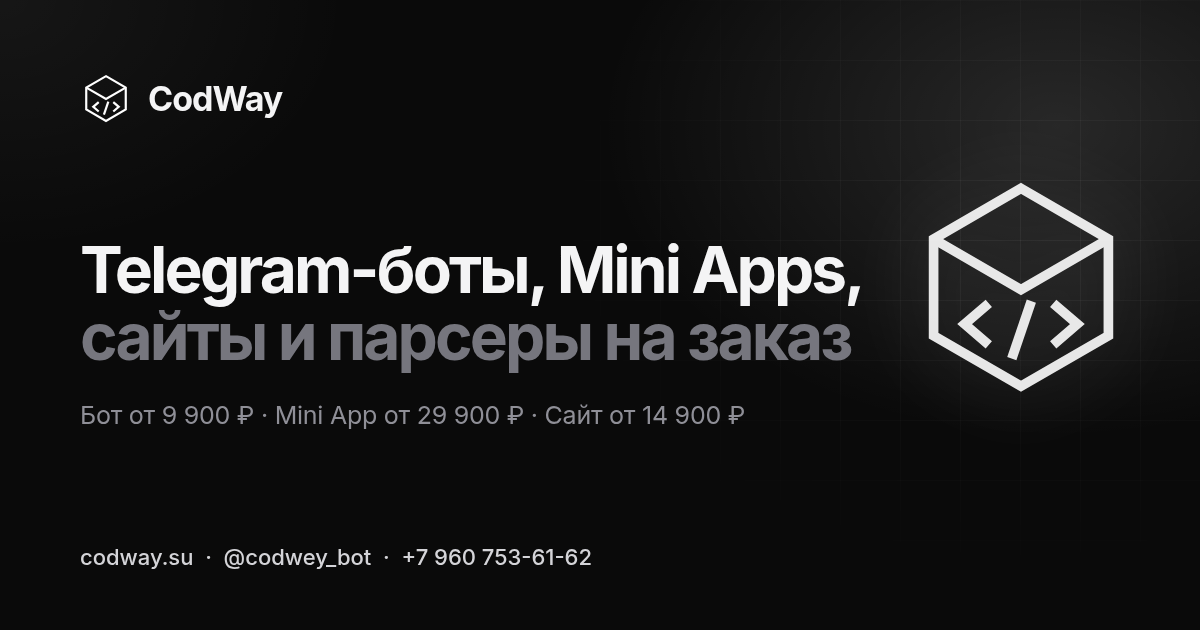
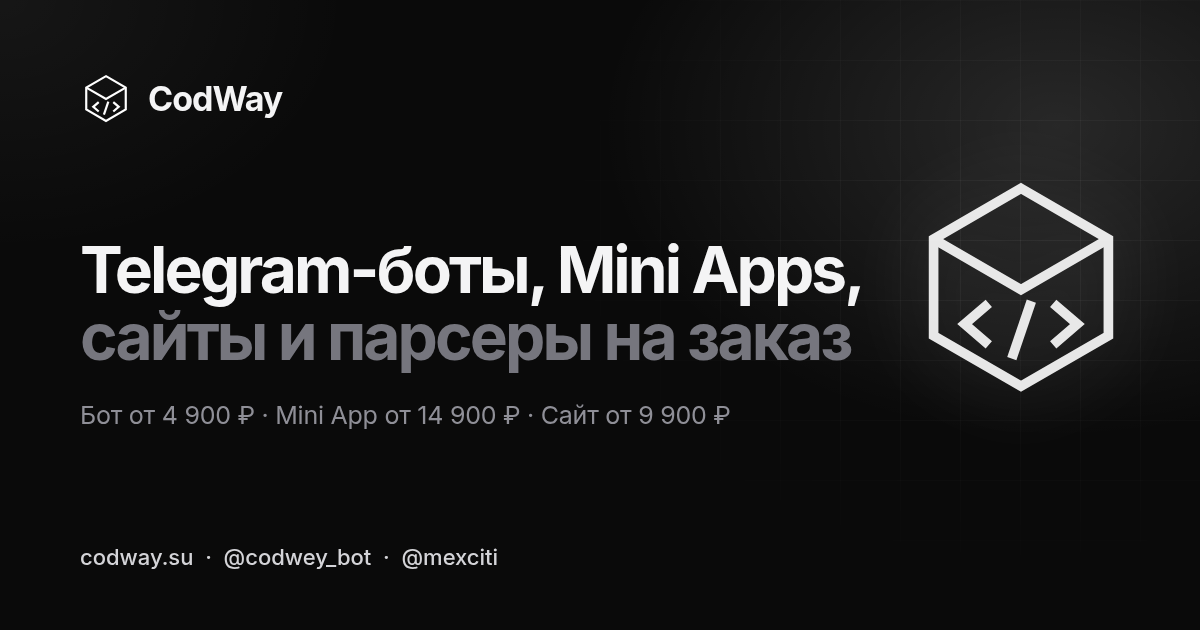
v8: три демо-сайта, понятные карточки демо на /sajt-na-zakaz, убран телефон, deep links в бот
- Вернули демо «Lumière» (/demo/beauty/) и «Квадрат» (/demo/remont/) рядом с «Очаг»:
  карточки в «Готовых решениях», блок #demo-sajty, sitemap.
- Hero на /sajt-na-zakaz: вместо некликабельного макета браузера — три карточки
  демо-сайтов в стиле карточек Mini Apps (фото, ниша, название, строка, «Открыть демо →»).
  Вся карточка — ссылка. Убраны вкладки и JS-переключатель превью.
- Телефон удалён везде: шапка/футер, контакты, форма, schema.org, мета /kontakty,
  og.png (перерисован, заодно актуальные цены), справочная копия бота.
  CI теперь проверяет @codwey_bot и падает, если в dist найдётся номер.
- Кнопки «В бот»/«Хочу такой» на демо ведут в бот с ?start=demo_<id> —
  бот сразу открывает карточку этого решения.
- infra/backend/app.py синхронизирован с VDS: каталог готовых решений в боте.
- Контакты: сетка на 3 карточки.

Changed region(s): [[0.1233, 0.6333, 0.6167, 0.6937], [0.3392, 0.8746, 0.4933, 0.9048]]

diff --git a/site/assets/style.css b/site/assets/style.css
@@ -111,23 +111,17 @@ h1{font-size:clamp(36px,5.2vw,64px);font-weight:700;letter-spacing:-.045em;text-
 .sol-demo:hover,.sol-card:hover .sol-demo{background:#fff;box-shadow:0 14px 34px -12px rgba(255,255,255,.6)}.sol-demo:hover i,.sol-card:hover .sol-demo i{transform:translateX(3px)}.sol-demo:focus-visible{outline:2px solid #fff;outline-offset:3px}
 .sol-play{display:grid;place-items:center;width:26px;height:26px;border-radius:50%;background:#0a0a0a;color:#fff}.sol-play svg{margin-left:1px}
 /* browser + terminal (monochrome) */
-.browser,.term{width:100%;max-width:470px;border-radius:14px;background:#111113;border:1px solid var(--line2);overflow:hidden;box-shadow:var(--sh2)}
+.term{width:100%;max-width:470px;border-radius:14px;background:#111113;border:1px solid var(--line2);overflow:hidden;box-shadow:var(--sh2)}
 .b-bar{display:flex;gap:7px;align-items:center;padding:12px 14px;background:#161618;border-bottom:1px solid var(--line)}.b-bar i{width:11px;height:11px;border-radius:50%;background:#3a3a3e}.b-bar span{margin:0 auto;padding:3px 28px;border-radius:7px;background:#0c0c0d;border:1px solid var(--line);font-size:12px;color:var(--mut)}
-.bp{width:100%;max-width:480px;display:flex;flex-direction:column;gap:12px}
-.bp-tabs{display:flex;gap:6px;padding:4px;border-radius:999px;background:#111113;border:1px solid var(--line2);align-self:center}
-.bp-tabs button{display:flex;align-items:baseline;gap:6px;padding:8px 14px;border:0;border-radius:999px;background:none;color:var(--mut);font:600 13.5px/1 var(--f);cursor:pointer;transition:background .2s,color .2s}.bp-tabs button small{font-weight:400;font-size:11.5px;color:var(--mut2)}
-.bp-tabs button:hover{color:var(--txt)}.bp-tabs button.on{background:var(--ink);color:#0a0a0a}.bp-tabs button.on small{color:#55555c}
-.bp .browser{max-width:none}.bp-pane[hidden]{display:none}.bp-pane{display:block;text-decoration:none;color:inherit;transition:filter .25s}.bp-pane:hover{filter:brightness(1.04)}
-.b-body{padding:18px 22px 22px;--pb:#f3efe8;--pi:#1e1d1b;--pm:#77716a;--pa:#a5674a;background:var(--pb);color:var(--pi)}
-.b-nav{display:flex;align-items:center;gap:12px;margin-bottom:22px;padding-bottom:12px;border-bottom:1px solid color-mix(in srgb,var(--pi) 12%,transparent)}.b-nav b{margin-right:auto;font:500 17px/1 Georgia,"Times New Roman",serif;letter-spacing:-.01em}
-.b-nav nav{display:flex;gap:12px}.b-nav span{font-size:11.5px;font-weight:500;color:var(--pm);white-space:nowrap}
-.b-k{margin:0 0 8px;font-size:9.5px;letter-spacing:.14em;text-transform:uppercase;color:var(--pm)}
-.b-h{margin:0 0 8px;font:400 29px/1.06 Georgia,"Times New Roman",serif;letter-spacing:-.02em}.b-h em{color:var(--pa)}
-.b-l{margin:0;max-width:330px;font-size:12.5px;line-height:1.5;color:var(--pm)}
-.b-cta{display:inline-block;margin:14px 0 18px;padding:9px 16px;border-radius:999px;background:var(--pa);color:#fff;font-weight:600;font-size:12px}
-.b-cards{display:grid;grid-template-columns:repeat(3,1fr);gap:8px}.b-cards figure{margin:0}.b-cards img{display:block;width:100%;height:84px;object-fit:cover;border-radius:8px;background:color-mix(in srgb,var(--pi) 8%,transparent)}.b-cards figcaption{margin-top:6px;font-size:11px;font-weight:500;color:var(--pm)}
-.t-cafe .b-body{--pb:#17120e;--pi:#f6efe6;--pm:#b9ab9a;--pa:#d9a441}.t-cafe .b-cta{background:#c8553a}
-.bp-open{display:flex;align-items:center;justify-content:center;gap:10px;height:48px;border-radius:14px;background:var(--ink);color:#0a0a0a;font-weight:600;font-size:14.5px;text-decoration:none;box-shadow:0 10px 30px -12px rgba(255,255,255,.35);transition:transform .25s var(--ease),box-shadow .25s}.bp-open i{font-style:normal;transition:transform .25s var(--ease)}.bp-open:hover{transform:translateY(-1px);box-shadow:0 14px 36px -12px rgba(255,255,255,.5)}.bp-open:hover i{transform:translateX(4px)}
+/* demo sites list in the /sajt-na-zakaz hero: each card is one link, same look as solution cards */
+.dsl{position:relative;z-index:1;width:100%;max-width:480px;display:grid;grid-template-rows:auto;grid-auto-rows:1fr;gap:12px}
+.dsl-k{margin:0 0 2px;font-size:13px;font-weight:500;color:var(--mut);letter-spacing:.01em}
+.dcard{position:relative;display:grid;grid-template-columns:112px 1fr;grid-template-areas:"pic tx" "pic go";gap:12px 16px;padding:14px;border-radius:var(--r);background:var(--card);border:1px solid var(--line);box-shadow:var(--sh);color:inherit;text-decoration:none;cursor:pointer;transition:transform .35s var(--ease),box-shadow .35s var(--ease),border-color .25s}
+.dcard:hover{transform:translateY(-3px);box-shadow:var(--sh2);border-color:var(--line2)}.dcard:focus-visible{outline:2px solid #fff;outline-offset:3px}
+.dcard-pic{grid-area:pic;display:block;border-radius:12px;overflow:hidden;background:#161618;align-self:stretch;min-height:96px}.dcard-pic img{display:block;width:100%;height:100%;object-fit:cover;transition:transform .5s var(--ease)}.dcard:hover .dcard-pic img{transform:scale(1.05)}
+.dcard-tx{grid-area:tx;display:flex;flex-direction:column;gap:3px;min-width:0}.dcard-tx small{font-size:12px;font-weight:500;color:var(--mut)}.dcard-tx b{font-size:18px;font-weight:650;letter-spacing:-.025em;line-height:1.2}.dcard-tx span{font-size:14px;line-height:1.4;color:var(--txt2)}
+.dcard-go{grid-area:go;align-self:end;display:flex;align-items:center;gap:10px;height:42px;padding:0 6px 0 14px;border-radius:12px;background:var(--ink);color:#0a0a0a;font-weight:600;font-size:14.5px;letter-spacing:-.01em;box-shadow:0 10px 28px -14px rgba(255,255,255,.45);transition:background .25s,box-shadow .25s}
+.dcard-go i{display:grid;place-items:center;width:30px;height:30px;margin-left:auto;border-radius:9px;background:#0a0a0a;color:#fff;font-style:normal;font-size:15px;transition:transform .3s var(--ease)}.dcard:hover .dcard-go{background:#fff;box-shadow:0 14px 34px -12px rgba(255,255,255,.6)}.dcard:hover .dcard-go i{transform:translateX(3px)}
 .term{background:#0b0b0c;border-color:#1f1f22}.term .b-bar{background:#151517;border-color:#232326}.term .b-bar i{background:#3a3a3e}.term .b-bar span{background:#0b0b0c;border-color:#26262a;color:#8a8a92}
 .term pre{margin:0;padding:22px;font:13px/1.8 ui-monospace,"SF Mono",Menlo,monospace;color:#d6d6da;white-space:pre-wrap}.term .ok{color:#fff}
 /* sections */
@@ -142,11 +136,7 @@ h1{font-size:clamp(36px,5.2vw,64px);font-weight:700;letter-spacing:-.045em;text-
 .cmp-tbl{border:1px solid var(--line);border-radius:var(--r);overflow:hidden;background:var(--card);box-shadow:var(--sh)}.row{display:grid;grid-template-columns:1.2fr 1fr 1fr;padding:16px 22px;border-top:1px solid var(--line);font-size:15px;align-items:center}
 .row:first-child{border-top:0}.row.h{background:var(--bg2);color:var(--mut);font-size:13px;font-weight:500}.row span:nth-child(2){color:var(--mut2);text-decoration:line-through;text-decoration-color:rgba(255,255,255,.25)}.row.h span{text-decoration:none}.row b{font-weight:650}.row.h span:last-child{color:var(--txt);font-weight:600}
 .sol{display:grid;grid-template-columns:repeat(auto-fill,minmax(250px,1fr));gap:16px;margin-top:40px}
-#demo-sajty .sol,#demo-sajty .sol-one{display:grid;grid-template-columns:1fr;max-width:560px;margin:40px auto 0;gap:0}
-#demo-sajty .sol-card-feat{padding:32px 34px;border-color:var(--line2);background:linear-gradient(165deg,#161618 0%,#111113 55%,#0e0e10 100%);box-shadow:var(--sh2),inset 0 1px 0 rgba(255,255,255,.06)}
-#demo-sajty .sol-card-feat .tag{background:rgba(255,255,255,.06);border-color:rgba(255,255,255,.12)}
-#demo-sajty .sol-card-feat h3{font-size:22px;letter-spacing:-.03em}
-#demo-sajty .sol-card-feat .sol-demo{margin-top:4px}
+#demo-sajty .sol{grid-template-columns:repeat(auto-fit,minmax(280px,1fr))}
 .sol-card{display:flex;flex-direction:column;padding:26px;border-radius:var(--r);background:var(--card);border:1px solid var(--line);box-shadow:var(--sh);transition:transform .35s var(--ease),box-shadow .35s var(--ease)}.sol-card:hover{transform:translateY(-3px);box-shadow:var(--sh2)}
 .sol-card h3{font-size:19px;letter-spacing:-.025em}.sol-card p{color:var(--mut);font-size:15px;margin:0 0 14px}.sol-card ul{list-style:none;margin:0 0 22px;padding:0;color:var(--txt2);font-size:14px}.sol-card li{position:relative;padding:3px 0 3px 22px}.sol-card li::before{content:"";position:absolute;left:2px;top:10px;width:10px;height:6px;border-left:1.6px solid var(--txt);border-bottom:1.6px solid var(--txt);transform:rotate(-45deg)}
 .tag{align-self:flex-start;margin-bottom:16px;padding:3px 10px;border-radius:999px;background:var(--bg2);border:1px solid var(--line);color:var(--txt2);font-size:12px;font-weight:500}
@@ -177,7 +167,7 @@ fieldset{border:0;padding:0;margin:0 0 22px}legend{font-weight:600;font-size:14p
 /* faq */
 .faq{margin-top:28px;border-top:1px solid var(--line)}.faq details{border-bottom:1px solid var(--line)}.faq summary{cursor:pointer;list-style:none;padding:22px 44px 22px 0;font-weight:600;font-size:17px;letter-spacing:-.015em;position:relative}.faq summary::-webkit-details-marker{display:none}
 .faq summary::after{content:"";position:absolute;right:6px;top:50%;width:9px;height:9px;margin-top:-7px;border-right:1.6px solid var(--txt);border-bottom:1.6px solid var(--txt);transform:rotate(45deg);transition:transform .3s var(--ease)}.faq details[open] summary::after{transform:rotate(-135deg);margin-top:-2px}.faq p{margin:-6px 0 22px;color:var(--mut);max-width:700px}
-.contacts{display:grid;grid-template-columns:repeat(4,1fr);gap:16px;margin-top:36px}.ccard{display:flex;flex-direction:column;gap:6px;padding:26px;border-radius:var(--r);background:var(--card);border:1px solid var(--line);box-shadow:var(--sh);text-decoration:none;transition:transform .35s var(--ease),box-shadow .35s var(--ease)}
+.contacts{display:grid;grid-template-columns:repeat(3,1fr);gap:16px;margin-top:36px}.ccard{display:flex;flex-direction:column;gap:6px;padding:26px;border-radius:var(--r);background:var(--card);border:1px solid var(--line);box-shadow:var(--sh);text-decoration:none;transition:transform .35s var(--ease),box-shadow .35s var(--ease)}
 .ccard:hover{transform:translateY(-3px);box-shadow:var(--sh2)}.ccard small{color:var(--mut)}.ccard b{font-size:17px;font-weight:600;letter-spacing:-.02em;word-break:break-word}.ccard span{color:var(--mut);font-size:14px}
 /* footer */
 .foot{padding:72px 0 100px;background:#070707;border-top:1px solid var(--line);color:#8d8d94;font-size:15px}.foot-in{display:grid;grid-template-columns:1.4fr 1fr 1fr;gap:40px}.foot p{max-width:360px}
@@ -187,7 +177,7 @@ fieldset{border:0;padding:0;margin:0 0 22px}legend{font-weight:600;font-size:14p
 /* reveal */
 .js .rv{opacity:0;transform:translateY(18px);transition:opacity .8s var(--ease),transform .8s var(--ease)}.js .rv.on{opacity:1;transform:none}
 @media (max-width:1100px){.stage-duo .phone-chat{margin-right:90px}.stage-duo .phone-app{transform:scale(.78) rotate(4deg)}}
-@media (max-width:980px){.hero-in,.cmp,.form-grid{grid-template-columns:1fr;gap:48px}.svc,.contacts,.feat-grid{grid-template-columns:1fr 1fr}.steps{grid-template-columns:1fr 1fr}.steps li:nth-child(3){border-left:0}.steps li:nth-child(n+3){border-top:1px solid var(--line)}.sec{padding:72px 0}.stage-duo .phone-chat{margin-right:0}.stage-duo .phone-app{right:calc(50% - 330px)}}
+@media (max-width:980px){.hero-in,.cmp,.form-grid{grid-template-columns:1fr;gap:48px}.svc,.feat-grid{grid-template-columns:1fr 1fr}.steps{grid-template-columns:1fr 1fr}.steps li:nth-child(3){border-left:0}.steps li:nth-child(n+3){border-top:1px solid var(--line)}.sec{padding:72px 0}.stage-duo .phone-chat{margin-right:0}.stage-duo .phone-app{right:calc(50% - 330px)}}
 @media (max-width:760px){.wrap,.narrow{width:min(100% - 36px,1180px)}
 .nav{display:none;position:absolute;top:64px;left:0;right:0;flex-direction:column;padding:10px 18px 18px;background:#0a0a0a;border-bottom:1px solid var(--line);box-shadow:0 20px 30px -20px rgba(0,0,0,.8)}.nav.open{display:flex}.nav .nav-tg,.nav .nav-tg:hover{display:flex;margin-top:8px;justify-content:center;background:var(--ink);color:#0a0a0a;font-weight:600}.nav a{padding:13px 12px;font-size:16px;border-radius:12px}
 .burger{display:block}.hide-m{display:none}.hero{padding:36px 0 48px}.hero::before{background-size:44px 44px}.hero-in{gap:40px}.cta{margin:26px 0 30px}.cta .btn{flex:1 1 100%;height:52px}.facts{gap:22px;justify-content:space-between}.facts li{flex:1;min-width:0}.facts b{font-size:17px}
@@ -198,4 +188,4 @@ fieldset{border:0;padding:0;margin:0 0 22px}legend{font-weight:600;font-size:14p
 .mbar{display:flex;gap:8px;position:fixed;left:12px;right:12px;bottom:12px;z-index:30;padding:6px;border-radius:999px;background:rgba(20,20,22,.78);backdrop-filter:saturate(160%) blur(18px);-webkit-backdrop-filter:saturate(160%) blur(18px);border:1px solid rgba(255,255,255,.1);box-shadow:0 12px 32px -12px rgba(0,0,0,.9)}.mbar .btn{flex:1;height:46px;padding:0 12px}.mbar .btn-tg{background:var(--ink);color:#0a0a0a;border-color:var(--ink)}}
 @media (prefers-reduced-motion:reduce){*{animation:none!important;transition:none!important}html{scroll-behavior:auto}.js .rv{opacity:1;transform:none}}
 @media (min-width:761px){.nav .nav-tg{display:none}}
-@media (max-width:420px){.b-body{padding:14px 14px 16px}.b-nav{gap:8px;margin-bottom:16px}.b-nav nav{gap:8px}.b-nav span{font-size:10px}.b-nav b{font-size:15px}.b-h{font-size:23px}.b-cards img{height:64px}.bp-tabs button{padding:8px 11px}.bp-tabs button small{display:none}}
+@media (max-width:420px){.dcard{grid-template-columns:96px 1fr;gap:10px 14px;padding:12px}.dcard-tx b{font-size:17px}.dcard-tx span{font-size:13.5px}}

diff --git a/site/tools/og.html b/site/tools/og.html
@@ -7,4 +7,4 @@ body{margin:0;width:1200px;height:630px;font-family:Inter;background:#0a0a0a;col
 .l{display:flex;align-items:center;gap:16px;font-weight:700;font-size:34px;letter-spacing:-.03em}.m{width:52px;height:52px;color:#fff}
 h1{margin:112px 0 0;font-size:64px;line-height:1.05;letter-spacing:-.045em;font-weight:700}h1 span{color:#76767e}
 p{margin:30px 0 0;font-size:25px;color:#8f8f97;letter-spacing:-.01em}.f{position:absolute;left:80px;bottom:60px;font-size:22px;font-weight:500;color:#d4d4d8}
-</style></head><body><div class="s"></div><div class="g"></div><div class="big">{{LOGO}}</div><div class="c"><div class="l"><span class="m">{{LOGO}}</span>CodWay</div><h1>Telegram-боты, Mini Apps,<br><span>сайты и парсеры на заказ</span></h1><p>Бот от 9&nbsp;900&nbsp;₽ · Mini App от 29&nbsp;900&nbsp;₽ · Сайт от 14&nbsp;900&nbsp;₽</p></div><div class="f">codway.su &nbsp;·&nbsp; @codwey_bot &nbsp;·&nbsp; +7 960 753-61-62</div></body></html>
+</style></head><body><div class="s"></div><div class="g"></div><div class="big">{{LOGO}}</div><div class="c"><div class="l"><span class="m">{{LOGO}}</span>CodWay</div><h1>Telegram-боты, Mini Apps,<br><span>сайты и парсеры на заказ</span></h1><p>Бот от 4&nbsp;900&nbsp;₽ · Mini App от 14&nbsp;900&nbsp;₽ · Сайт от 9&nbsp;900&nbsp;₽</p></div><div class="f">codway.su &nbsp;·&nbsp; @codwey_bot &nbsp;·&nbsp; @mexciti</div></body></html>

diff --git a/site/assets/app.js b/site/assets/app.js
@@ -49,7 +49,7 @@
     const say = (t, ok) => { msg.textContent = t; msg.className = "form-msg " + (ok ? "ok" : "err"); };
     const contact = normContact(f.contact.value), description = f.description.value.trim();
     if (description.length < 10) return say("Опишите задачу хотя бы парой предложений.");
-    if (!contact) return say("Укажите Telegram @username (от 5 символов) или телефон, например +7 960 000-00-00.");
+    if (!contact) return say("Укажите Telegram @username (от 5 символов) или телефон, например +7 900 000-00-00.");
     if (!f.consent.checked) return say("Отметьте согласие на обработку контактов.");
     const body = { submission_id: sid, contact, project: f.project.value, description, consent: true, website: f.website.value,
       features: solution ? [] : [...f.querySelectorAll('[name=features]:checked')].map((i) => i.value) };

diff --git a/infra/backend/app.py b/infra/backend/app.py
@@ -61,7 +61,7 @@ ALERT_EMAIL = os.getenv("ALERT_EMAIL", "coddweyy@gmail.com")
 RATE_SALT = hashlib.sha256((BOT_TOKEN or "local-development").encode()).digest()
 MSK = ZoneInfo("Europe/Moscow")
 DELAY_NOTE_AFTER = 300
-CONTACTS = ("📞 <b>Контакты CodWay</b>\n\nТелефон: +7 960 753-61-62\nTelegram: @mexciti\nПочта: coddweyy@gmail.com\n"
+CONTACTS = ("📞 <b>Контакты CodWay</b>\n\nБот для заявок: @codwey_bot\nTelegram: @mexciti\nПочта: coddweyy@gmail.com\n"
             "Сайт: https://codway.su\n\nОтвечаем 9:00–22:00 МСК, обычно в течение часа.")
 SERVICE_LABELS = {**{k: v["label"] for k, v in PROJECTS.items()}, "other": "Другое / консультация", "question": "Вопрос"}
 bot: Bot | None = None
@@ -433,9 +433,11 @@ class Req(StatesGroup):
     description = State()
     files = State()
 
+CATALOG_BTN = "🧩 Готовые решения"
 MENU = ReplyKeyboardMarkup(resize_keyboard=True, is_persistent=True, keyboard=[
-    [KeyboardButton(text="📝 Оставить заявку"), KeyboardButton(text="💬 Написать менеджеру")],
-    [KeyboardButton(text="💰 Цены"), KeyboardButton(text="📂 Мои заявки"), KeyboardButton(text="📞 Контакты")]])
+    [KeyboardButton(text="📝 Оставить заявку"), KeyboardButton(text=CATALOG_BTN)],
+    [KeyboardButton(text="💬 Написать менеджеру"), KeyboardButton(text="💰 Цены")],
+    [KeyboardButton(text="📂 Мои заявки"), KeyboardButton(text="📞 Контакты")]])
 FILES_KB = ReplyKeyboardMarkup(resize_keyboard=True, keyboard=[
     [KeyboardButton(text="✅ Готово")], [KeyboardButton(text="📱 Поделиться телефоном", request_contact=True)]])
 
@@ -498,6 +500,55 @@ def prices_text():
     lines.append("\nОплата 50/50, 30 дней бесплатных правок, код передаём вам.\nПодробно: https://codway.su/ceny")
     return "\n".join(lines)
 
+# ---------------------------------------------------------------- bot: ready-made catalog (same items as codway.su)
+SITE_URL = "https://codway.su"
+CATALOG_GROUPS = (("bot", "🤖", "Telegram-боты"), ("miniapp", "📱", "Mini Apps"), ("site", "🌐", "Сайты"))
+GROUP_ICON = {g: i for g, i, _ in CATALOG_GROUPS}
+SOL_RE = re.compile(r"[a-z0-9_]{1,40}")
+
+def demo_url(s):
+    return f"{SITE_URL}/demo/{s['id']}/"
+
+def catalog_text():
+    lines = ["🧩 <b>Готовые решения CodWay</b>\n", "Уже собранная основа — подстроим под ваш бизнес за 1–3 дня. "
+             "Выберите решение, чтобы открыть демо или оставить заявку.\n"]
+    for g, icon, title in CATALOG_GROUPS:
+        items = [x for x in SOLUTIONS.values() if x["project"] == g]
+        if items:
+            lines.append(f"{icon} <b>{title}</b>")
+            lines += [f"• {escape(x['title'])} — {money(x['price'])} ₽" for x in items]
+            lines.append("")
+    lines.append("Нужно что-то своё? Нажмите «📝 Оставить заявку».")
+    return "\n".join(lines)
+
+def catalog_kb():
+    rows = [[InlineKeyboardButton(text=f"{GROUP_ICON.get(x['project'], '•')} {x['title']} · {money(x['price'])} ₽", callback_data=f"cat:item:{x['id']}")]
+            for g, _, _ in CATALOG_GROUPS for x in SOLUTIONS.values() if x["project"] == g]
+    rows.append([InlineKeyboardButton(text="📝 Нужно своё — заказная разработка", callback_data="cat:custom")])
+    return InlineKeyboardMarkup(inline_keyboard=rows)
+
+def item_text(x):
+    feats = "\n".join(f"✓ {escape(f)}" for f in x.get("features", []))
+    return (f"{GROUP_ICON.get(x['project'], '🧩')} <b>{escape(x['title'])}</b>\n"
+            f"<b>{money(x['price'])} ₽</b> · запуск за 1–3 дня\n\n{escape(x['description'])}\n\n{feats}\n\n"
+            "Откройте демо, чтобы попробовать, или нажмите «Хочу такой» — менеджер свяжется с вами здесь.")
+
+def item_kb(x):
+    return InlineKeyboardMarkup(inline_keyboard=[
+        [InlineKeyboardButton(text="🔗 Открыть демо", url=demo_url(x))],
+        [InlineKeyboardButton(text="✅ Хочу такой", callback_data=f"cat:want:{x['id']}")],
+        [InlineKeyboardButton(text="« Назад", callback_data="cat:list")]])
+
+async def show_screen(q: CallbackQuery, text, kb):
+    """Edit the catalog message in place; fall back to a new message if it can't be edited."""
+    try:
+        await q.message.edit_text(text, reply_markup=kb, disable_web_page_preview=True)
+    except TelegramBadRequest as exc:
+        if "not modified" not in str(exc):
+            await bot.send_message(q.from_user.id, text, reply_markup=kb, disable_web_page_preview=True)
+    except AttributeError:  # InaccessibleMessage (older than 48 h) can't be edited
+        await bot.send_message(q.from_user.id, text, reply_markup=kb, disable_web_page_preview=True)
+
 def services_kb():
     rows = [[InlineKeyboardButton(text=p["label"], callback_data=f"svc:{p['id']}")] for p in PRICING["projects"]]
     rows.append([InlineKeyboardButton(text="Другое / не знаю", callback_data="svc:other")])
@@ -524,8 +575,14 @@ async def start(message: Message, state: FSMContext):
     await state.clear()
     await message.answer("Здравствуйте! Это <b>CodWay</b> — делаем Telegram-ботов, Mini Apps, сайты и парсеры. "
                          "Бот от 4 900 ₽, Mini App от 14 900 ₽, сайт от 9 900 ₽, оплата 50/50.\n\n"
-                         "Нажмите «📝 Оставить заявку» или просто напишите вопрос — ответит живой разработчик.", reply_markup=MENU)
-    if arg.startswith("sol_") and arg[4:] in SOLUTIONS:
+                         f"«{CATALOG_BTN}» — боты, Mini Apps и сайты с демо, которые можно запустить за 1–3 дня. "
+                         "«📝 Оставить заявку» — разработка под вашу задачу. Или просто напишите вопрос — ответит живой разработчик.", reply_markup=MENU)
+    if arg.startswith("demo_") and arg[5:] in SOLUTIONS:  # visitor came from a demo on codway.su
+        s = SOLUTIONS[arg[5:]]
+        await message.answer(item_text(s), reply_markup=item_kb(s), disable_web_page_preview=True)
+    elif arg == "catalog":
+        await message.answer(catalog_text(), reply_markup=catalog_kb(), disable_web_page_preview=True)
+    elif arg.startswith("sol_") and arg[4:] in SOLUTIONS:
         s = SOLUTIONS[arg[4:]]
         await state.update_data(service=s["project"], solution_id=s["id"])
         await state.set_state(Req.description)
@@ -664,6 +721,56 @@ async def req_service(q: CallbackQuery, state: FSMContext):
     with suppress(Exception):
         await q.message.edit_text(f"Услуга: <b>{escape(SERVICE_LABELS.get(svc, 'Другое'))}</b>")
     await q.message.answer("Опишите задачу: что должен уметь продукт, для кого, есть ли примеры. Можно текстом или голосовым.")
+
+@dispatcher.message(F.chat.type == "private", F.text == CATALOG_BTN)
+@dispatcher.message(F.chat.type == "private", Command("catalog"))
+async def catalog(m: Message, state: FSMContext):
+    if await blocked(m): return
+    await state.clear()
+    await m.answer(catalog_text(), reply_markup=catalog_kb(), disable_web_page_preview=True)
+
+@dispatcher.callback_query(F.data.startswith("cat:"))
+async def catalog_action(q: CallbackQuery, state: FSMContext):
+    if not q.message or q.message.chat.type != "private":
+        await q.answer(); return
+    if touch_user(q.from_user)["blocked"]:
+        await q.answer(); return
+    action, _, sid = q.data[4:].partition(":")
+    if action == "list":
+        await q.answer()
+        await show_screen(q, catalog_text(), catalog_kb())
+        return
+    if action == "custom":
+        await q.answer()
+        await state.clear(); await state.set_state(Req.service)
+        await bot.send_message(q.from_user.id, "Что нужно сделать?", reply_markup=services_kb())
+        return
+    x = SOLUTIONS.get(sid) if SOL_RE.fullmatch(sid or "") else None
+    if not x:
+        await q.answer("Это решение больше не доступно", show_alert=True)
+        await show_screen(q, catalog_text(), catalog_kb())
+        return
+    if action == "item":
+        await q.answer()
+        await show_screen(q, item_text(x), item_kb(x))
+        return
+    if action != "want":
+        await q.answer(); return
+    if is_admin(q.from_user.id):
+        await q.answer("Это ваш бот — заявки от владельца не создаются", show_alert=True); return
+    with db() as conn:
+        dup = conn.execute("SELECT id FROM tickets WHERE user_id=? AND solution_id=? AND status!='closed' AND created_at>? ORDER BY id DESC LIMIT 1",
+                           (q.from_user.id, x["id"], time.time() - 86400)).fetchone()
+        tid = dup["id"] if dup else new_ticket(conn, q.from_user, x["project"], x["id"],
+                                                f"Хочу готовое решение «{x['title']}» — {money(x['price'])} ₽ (из каталога бота, демо: {demo_url(x)})", time.time())
+    await q.answer("Заявка уже у менеджера" if dup else "Заявка отправлена ✅")
+    await state.clear()
+    await state.update_data(ticket_id=tid, service=x["project"], solution_id=x["id"]); await state.set_state(Req.files)
+    head = (f"Заявка <b>#{tid}</b> на «{escape(x['title'])}» уже у менеджера." if dup else
+            f"✅ Заявка <b>#{tid}</b> на «<b>{escape(x['title'])}</b>» — {money(x['price'])} ₽ передана менеджеру.")
+    await bot.send_message(q.from_user.id, head + " Ответим здесь в течение часа (9:00–22:00 МСК).\n\n"
+                           "Если хотите, расскажите о вашем бизнесе или пришлите примеры — я всё передам. Когда закончите, нажмите «✅ Готово».",
+                           reply_markup=FILES_KB)
 
 @dispatcher.message(F.chat.type == "private", F.text == "💰 Цены")
 async def prices(m: Message):
